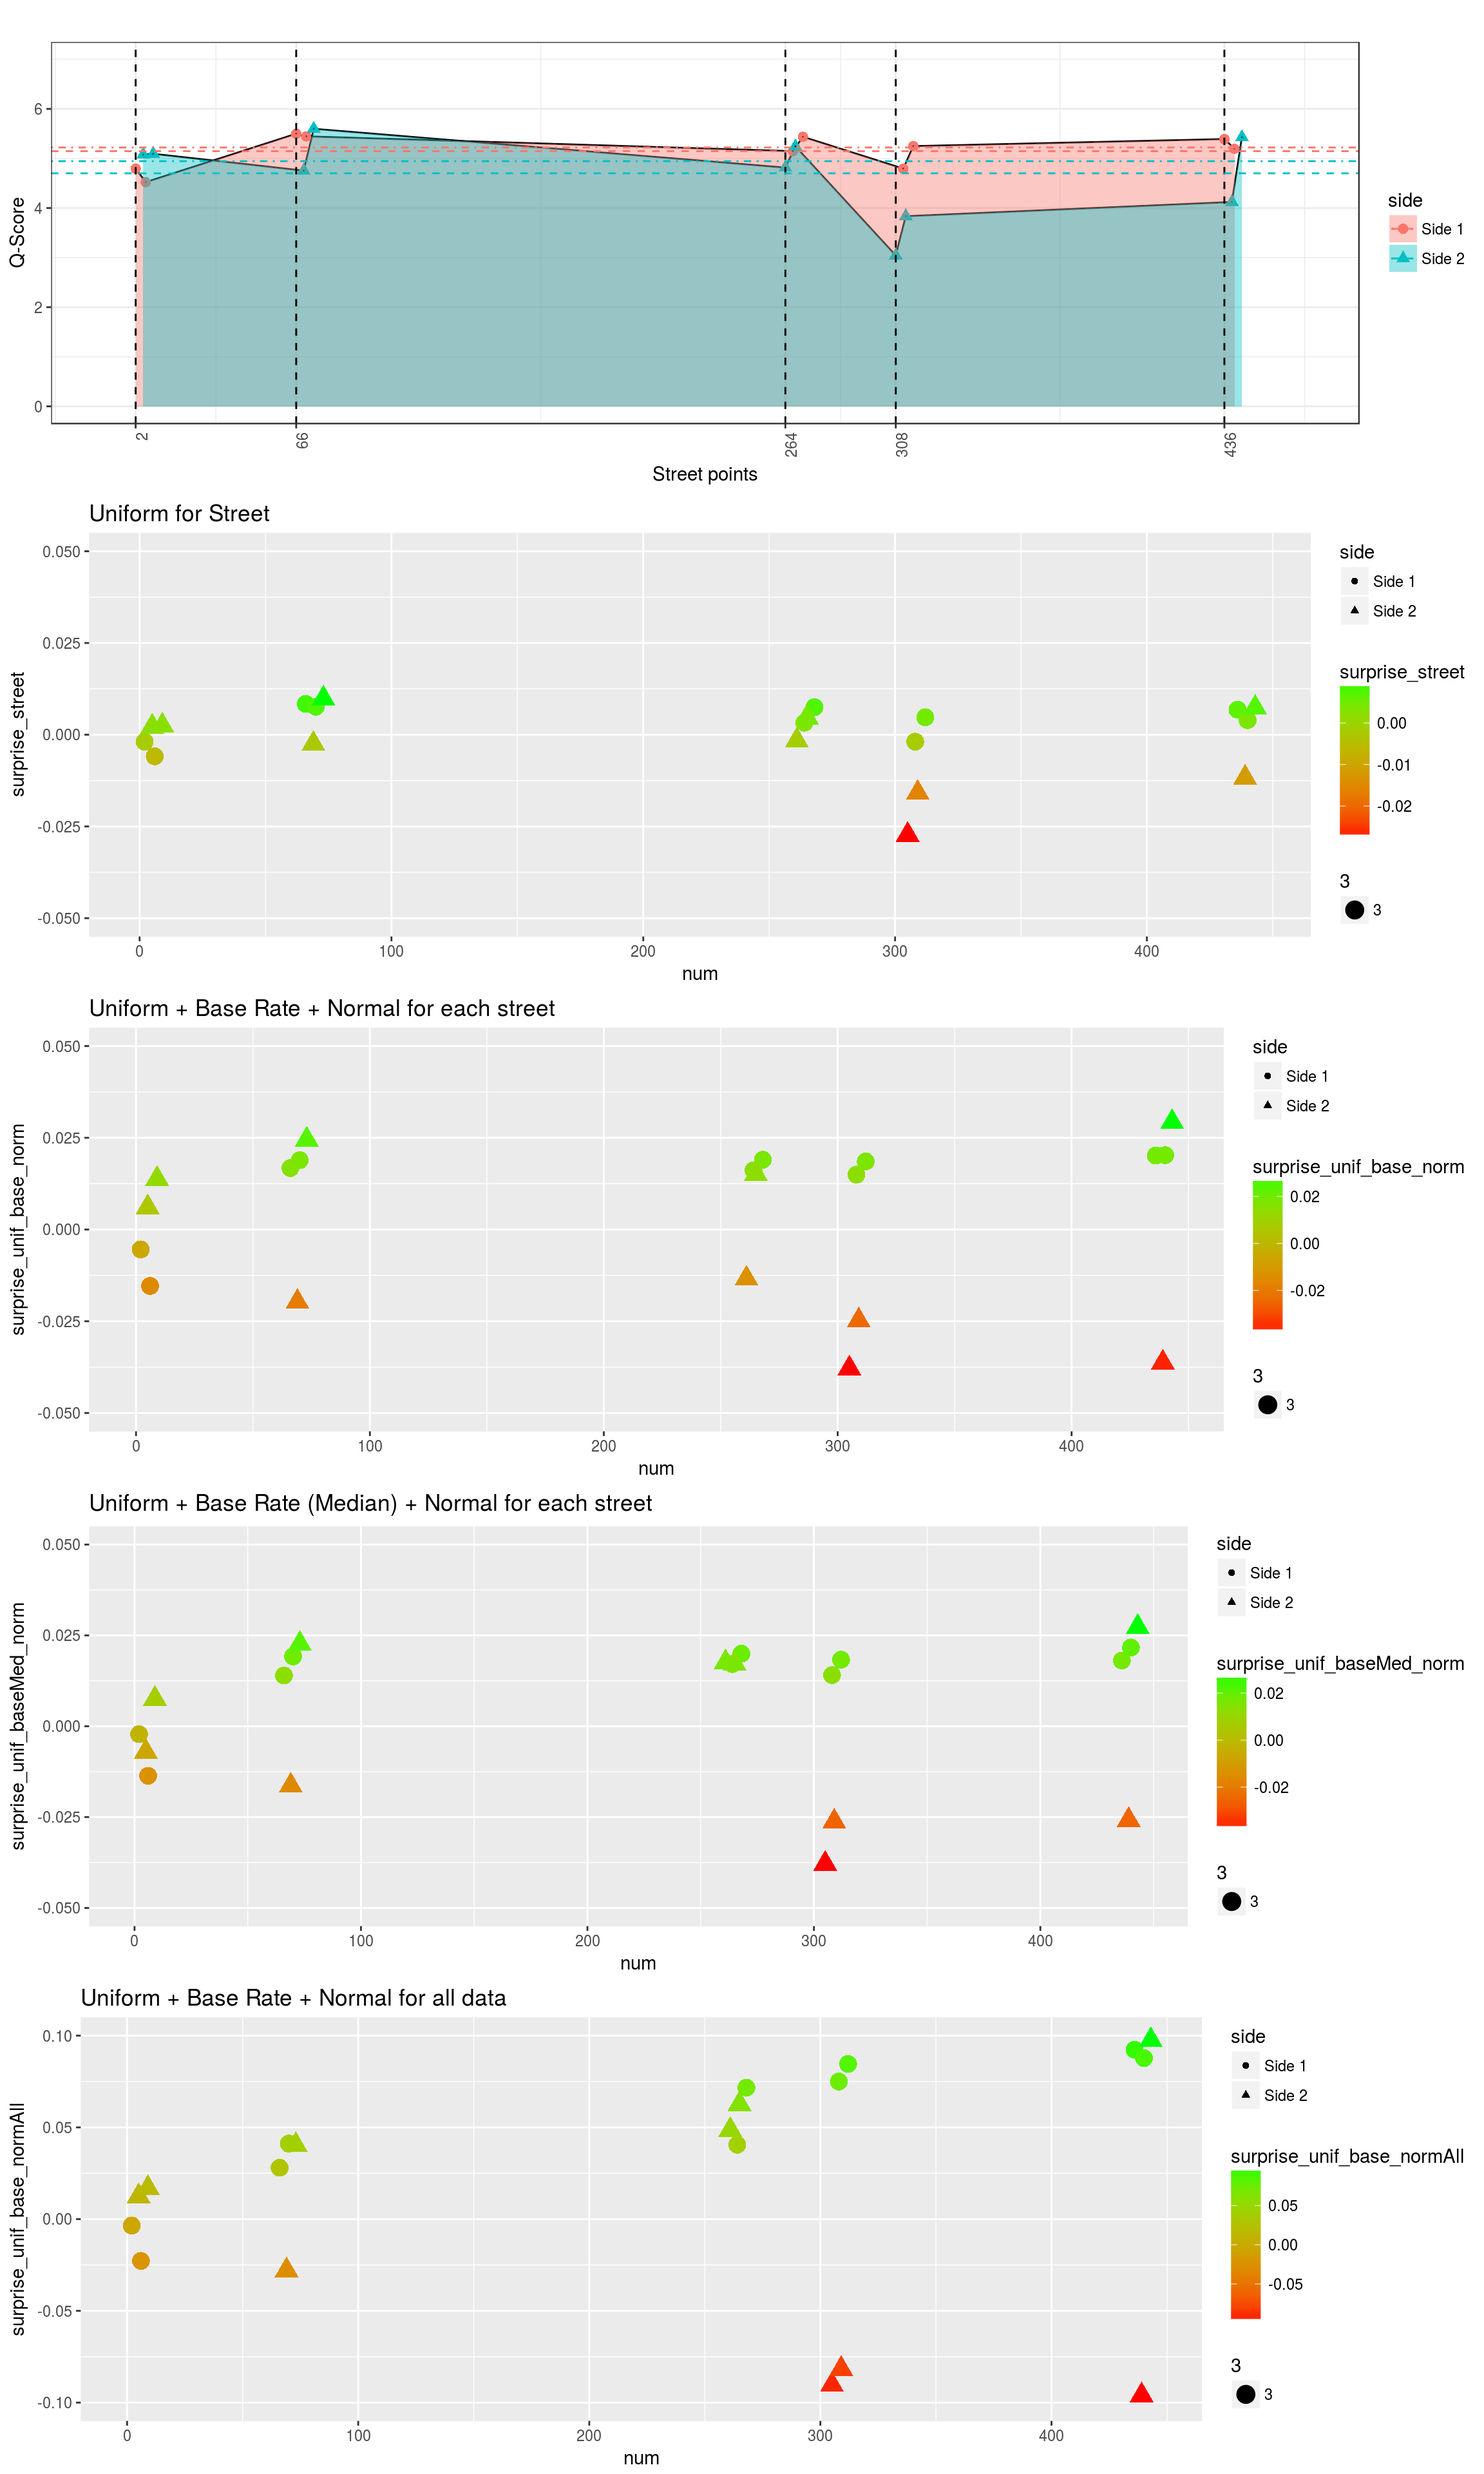
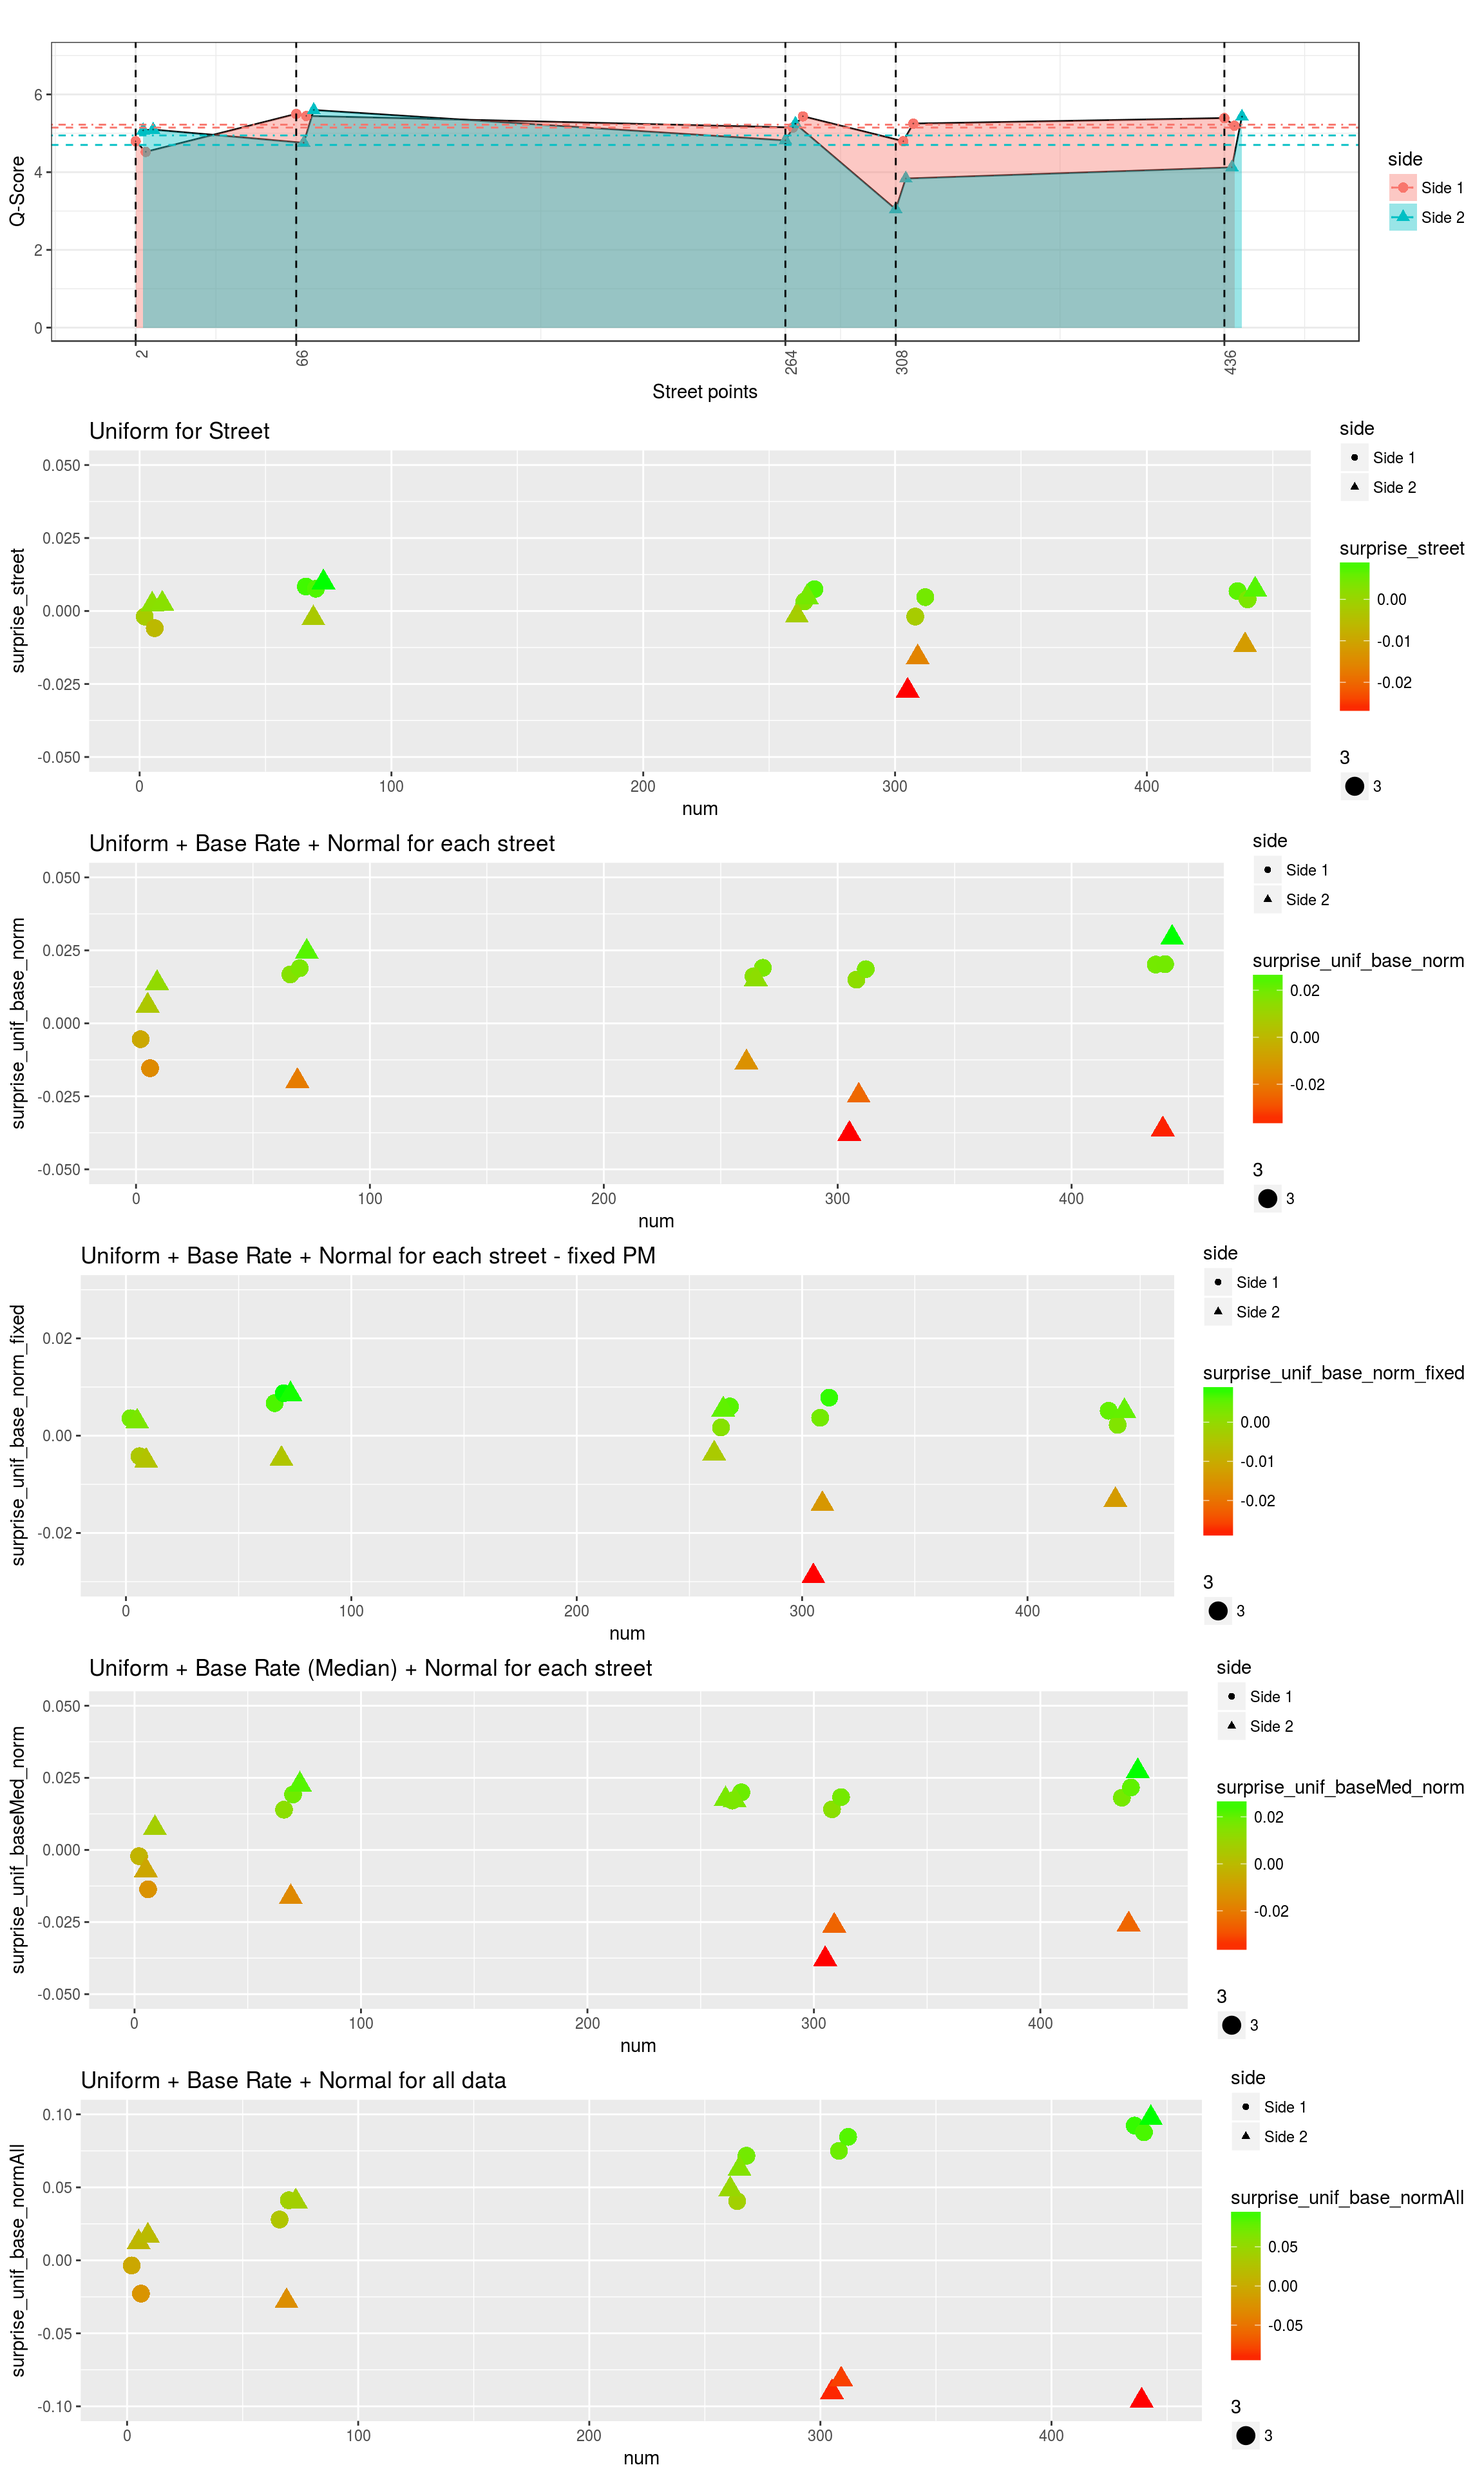
Fixing PM use in KL calculation according to paper

diff --git a/scripts/analise/dadosSet17/usuario/surprise/demo.js b/scripts/analise/dadosSet17/usuario/surprise/demo.js
@@ -291,8 +291,7 @@ function update(){
 }
 
 function average_num(prop, i){
-  //Average scores for current street.
-  //var index = i ? i : curYear-minYear;
+  //Average scores for current street point.
   var sum = 0;
   var n = 0;
 
@@ -303,6 +302,36 @@ function average_num(prop, i){
 	    n++;
   }
   return sum/n;
+}
+
+function median(numbers) {
+    // median of [3, 5, 4, 4, 1, 1, 2, 3] = 3
+    var median = 0, numsLen = numbers.length;
+    numbers.sort();
+ 
+    if (
+        numsLen % 2 === 0 // is even
+    ) {
+        // average of two middle numbers
+        median = (numbers[numsLen / 2 - 1] + numbers[numsLen / 2]) / 2;
+    } else { // is odd
+        // middle number only
+        median = numbers[(numsLen - 1) / 2];
+    }
+ 
+    return median;
+}
+
+function median_num(prop, i){
+  //Median score for current street point.
+  current_values = [];
+
+  var int_part = parseInt(i/4);
+
+  for(var i = int_part * 4; i < (int_part+1) * 4; i++){
+	current_values = current_values.concat(data[prop][i]);
+  }
+  return median(current_values);
 }
 
 function average_street(prop){
@@ -451,7 +480,7 @@ function calcSurprise(){
 
       avg_street  = average_street(prop);//For whole street
       total_street = sumU_street(prop);
-      avg_num = average_num(prop, i);//For current point
+      avg_num = average_num(prop, i);//median_num(prop, i);//For current point
       total_num = sumU_num(prop, i);
       
       //Estimate P(D|M) as 1 - |O - E|
@@ -477,12 +506,13 @@ function calcSurprise(){
       kl = 0;
       var voteSum = 0;
       for(var j=0;j<pMDs.length;j++){
-        kl+= pMDs[j] * (Math.log( pMDs[j] / pMs[0])/Math.log(2));
+        kl+= pMDs[j] * (Math.log( pMDs[j] / pMs[j])/Math.log(2));
         voteSum += diffs[j]*pMs[j];
         sumDiffs[j]+=Math.abs(diffs[j]);
       }
       
       surpriseData[prop][i] = voteSum >= 0 ? Math.abs(kl) : -1*Math.abs(kl);
+
       uniformData[prop][i] = pMs[0];
       baseData[prop][i] = pMs[1];
     }
